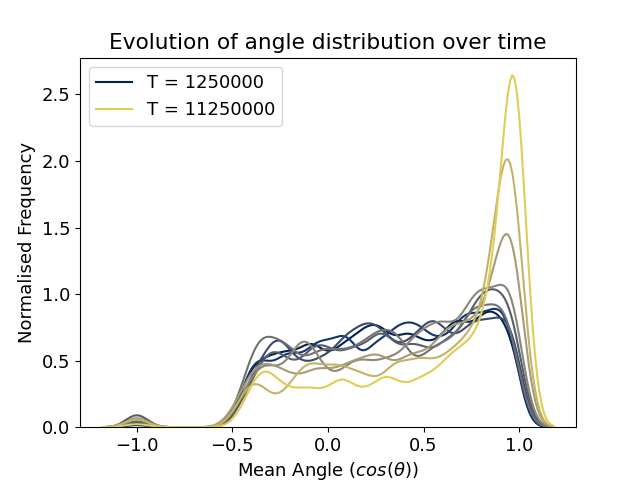
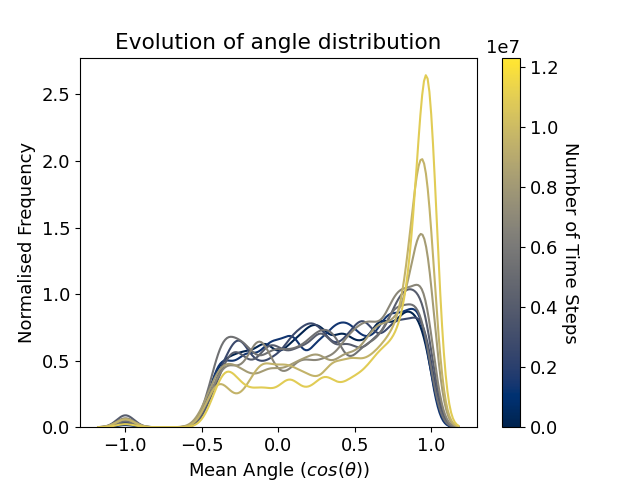
colourbars added with labels

diff --git a/Phase_Structure/Nunchucks/Fixed_Rigidity/angle_plot.py b/Phase_Structure/Nunchucks/Fixed_Rigidity/angle_plot.py
@@ -1,5 +1,6 @@
 import numpy as np
 import matplotlib.pyplot as plt
+import matplotlib.cm as cm
 import seaborn as sns
 from scipy.ndimage import uniform_filter1d  # for rolling average
 from phase_plot import vol_frac
@@ -164,7 +165,7 @@ for i, time in enumerate(time_range):  # interate over dump files
             #     rod_positions[int(particle_values[1]) - 1, 2, :] = particle_values[3:6]
 
             # Save positional coordatinates of end particles - CLOSE
-            centre = (mol_length + 1) / 2
+            centre = (mol_length + 1) / 2  # for odd length molecules only
             if int(particle_values[2]) == int(centre - 1):
                 rod_positions[int(particle_values[1]) - 1, 0, :] = particle_values[3:6]
             if int(particle_values[2]) == int(centre):  # central particle
@@ -182,40 +183,23 @@ for i, time in enumerate(time_range):  # interate over dump files
     colors = plt.cm.cividis(np.linspace(0, 1, tot_plot_num))
     if i % plotting_freq == 0 and time != 0:
         print(time)
-        if i == plotting_freq or time >= run_time - (
-            dump_interval * sampling_freq * plotting_freq
-        ):
-            # label only start and end points
-            # plt.hist(
-            #     angle_data,
-            #     density=True,
-            #     histtype="step",
-            #     color=colors[i // plotting_freq - 1],
-            #     label="T = " + str(int(time)),
-            # )
-            sns.kdeplot(
-                angle_data,
-                label="T = " + str(int(time)),
-                color=colors[i // plotting_freq - 1],
-                bw_adjust=0.5,  # adjusts smoothing (default is 1)
-                # gridsize=50,  #adjusts points in average (default is 200)
-            )
-        else:
-            sns.kdeplot(
-                angle_data,
-                color=colors[i // plotting_freq - 1],
-                alpha=1,
-                bw_adjust=0.5,
-                # gridsize=50
-            )
-            # alpha may be used to adjust transparency
+        sns.kdeplot(
+            angle_data,
+            color=colors[i // plotting_freq - 1],
+            bw_adjust=0.5,  # adjusts smoothing (default is 1)
+            # gridsize=50,
+            alpha=1,  # adjusts transparency
+        )
 
     print("T = " + str(time) + "/" + str(run_time))
 
-plt.title("Evolution of angle distribution over time")
+sm = plt.cm.ScalarMappable(cmap=cm.cividis, norm=plt.Normalize(vmin=0, vmax=run_time))
+cbar = plt.colorbar(sm)
+cbar.ax.set_ylabel("Number of Time Steps", rotation=270, labelpad=15)
+
+plt.title("Evolution of angle distribution")
 plt.xlabel(r"Mean Angle ($cos(\theta)$)")
 plt.ylabel("Normalised Frequency")
-plt.legend()
 plt.savefig("angle_dist.png")
 plt.show()
 

diff --git a/Phase_Structure/Nunchucks/Fixed_Rigidity/correlation.plot.py b/Phase_Structure/Nunchucks/Fixed_Rigidity/correlation.plot.py
@@ -1,5 +1,6 @@
 import numpy as np
 import matplotlib.pyplot as plt
+import matplotlib.cm as cm
 import seaborn as sns
 from scipy.ndimage import uniform_filter1d  # for rolling average
 from phase_plot import vol_frac
@@ -212,38 +213,19 @@ for i, time in enumerate(time_range):  # interate over dump files
     tot_plot_num = len(time_range)
     colors = plt.cm.cividis(np.linspace(0, 1, tot_plot_num))
     if i == 0:
-        continue
-    if i == 1 or i == tot_plot_num - 1:
-        # label only start and end points
-        # plt.hist(
-        #     angle_data,
-        #     density=True,
-        #     histtype="step",
-        #     color=colors[i // PLOTTING_FREQ - 1],
-        #     label="T = " + str(int(time)),
-        # )
-        plt.plot(
-            separation_bins,
-            correlation_data,
-            label="T = " + str(int(time)),
-            color=colors[i],
-        )
-    else:
-        plt.plot(
-            separation_bins,
-            correlation_data,
-            color=colors[i],
-            alpha=1,
-            label="(T = )" + str(int(time)),
-        )
-        # alpha may be used to adjust transparency
+        continue  # don't plot this case
+    plt.plot(
+        separation_bins, correlation_data, color=colors[i],
+    )
 
     print("T = " + str(time) + "/" + str(run_time))
 
-plt.colorbar(cs)
+sm = plt.cm.ScalarMappable(cmap=cm.cividis, norm=plt.Normalize(vmin=0, vmax=run_time))
+cbar = plt.colorbar(sm)
+cbar.ax.set_ylabel("Number of Time Steps", rotation=270, labelpad=15)
+
 plt.title("Pairwise Angular Correlation Function")
 plt.xlabel("Particle Separation")
 plt.ylabel("Correlation Function")
-plt.legend()
 plt.savefig("correlation_func.png")
 plt.show()
